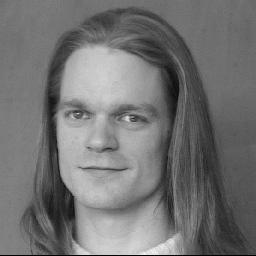
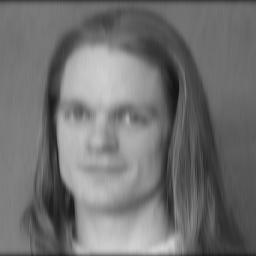
update

diff --git a/2-1.py b/2-1.py
@@ -51,35 +51,23 @@ def img_to_file(img, filename):
     return output
 
 def prepare_mask(m_size):           # Task 1 Number 1
-    sigma = (m_size - 1.0) / (2.0 * 2.575)
-    m_array = np.zeros((m_size,m_size))
-    const = 1 / (2 * np.pi * sigma * sigma)
-
-    m_radius = m_size / 2;
-    sum_gauss = 0
-    for x in range (m_size):
-        for y in range (m_size):
-            m_array[x,y] = const * np.exp(-1 * (np.power(x - m_radius,2)+np.power(y - m_radius,2)) / (2 *  sigma * sigma))
-            sum_gauss = sum_gauss + m_array[x,y]
-    # normalize
-    for x in range(m_size):
-        for y in range(m_size):
-            m_array[x,y] = m_array[x,y] * (1 / sum_gauss)
-    return m_array
+    shape=(m_size,m_size)
+    sigma=(m_size-1.)/(2.*2.575)
+    m,n = [(ss-1.)/2. for ss in shape]
+    y,x = np.ogrid[-m:m+1,-n:n+1]
+    h = np.exp( -(x*x + y*y) / (2.*sigma*sigma) )
+    h[ h < np.finfo(h.dtype).eps*h.max() ] = 0
+    h = h/h.sum()
+    return h
 
 def prepare_mask_2(m_size):             # Task 1 Number 2
     sigma = (m_size - 1.0) / (2.0 * 2.575)
     m_array = np.zeros(m_size)
     const = 1 / (np.sqrt(2 * np.pi)* sigma)
     m_radius = m_size / 2;
-    
-    sum_gauss = 0
-    for i in xrange (m_size):
-        m_array[i] = const * np.exp(-1 * np.power(i - m_radius,2) / (2 *  sigma * sigma))
-        sum_gauss +=  m_array[i]  
-    
-    m_array = m_array * (1 / sum_gauss)
-
+    x= np.ogrid[-m_radius:m_radius+1]
+    m_array = const * np.exp(-1 * np.power(x,2) / (2 *  sigma * sigma))
+    m_array = m_array / m_array.sum()
     return m_array
 
 def image_function_task1(img, m_array, m_size):
@@ -103,35 +91,28 @@ def image_function_task1(img, m_array, m_size):
             output[x,y] = sum_output
     return output[m_size_half:width+m_size_half,m_size_half:height+m_size_half]
 
-def convolve1D(arr2,arr1,m_size,length,m_size_h):
-    # h = np.fliplr(arr2);
+def convolve1D(arr2,arr1,m_size,length):
     length_pad = length + m_size - 1
-
-    y = np.zeros(length_pad+m_size);
+    y = np.zeros(length_pad+m_size)
     for i in xrange(length_pad):
         y[i] = 0;
         for j in xrange(m_size):
-            y[i] += arr1[i - j] * arr2[j];
-
-    return y[m_size:length+m_size]
+            y[i] += arr1[i - j] * arr2[j]
+    return y[0:length_pad]
 
 def image_function_task1_2(img, m_array, m_size):
-
-    width, height = img.size    # get width and height size
-    output = np.zeros(shape=(width,height), dtype=np.float)   # create new array 2d
+    width, height = img.size
+    output = np.zeros(shape=(width,height), dtype=np.float)   
 
     img_array = np.asarray(img)
     m_size_half = m_size / 2
-
-    image_buf = np.lib.pad(img_array, ((m_size_half,m_size_half), (m_size_half,m_size_half)), 'edge')
+    output = np.lib.pad(img_array, ((m_size_half,m_size_half), (m_size_half,m_size_half)), 'edge')
+    print output.shape
     for x in range(width):
-        output[x,:] = convolve1D(m_array,image_buf[x,:], m_size, width, m_size_half)
-
-    output_buf = np.lib.pad(output, ((m_size_half,m_size_half), (m_size_half,m_size_half)), 'edge')
+        output[x,:] = convolves(m_array,output[x,:], m_size, width)
     for y in range(height):
-        output[:,y] = convolve1D(m_array,output_buf[:,y], m_size, height, m_size_half)
-
-    return output 
+        output[:,y] = convolves(m_array,output[:,y], m_size, height)
+    return output[m_size:width+m_size,m_size:height+m_size] 
 
 def image_function_task1_3(img, m_array, m_size):
     img_array = np.asarray(img)
